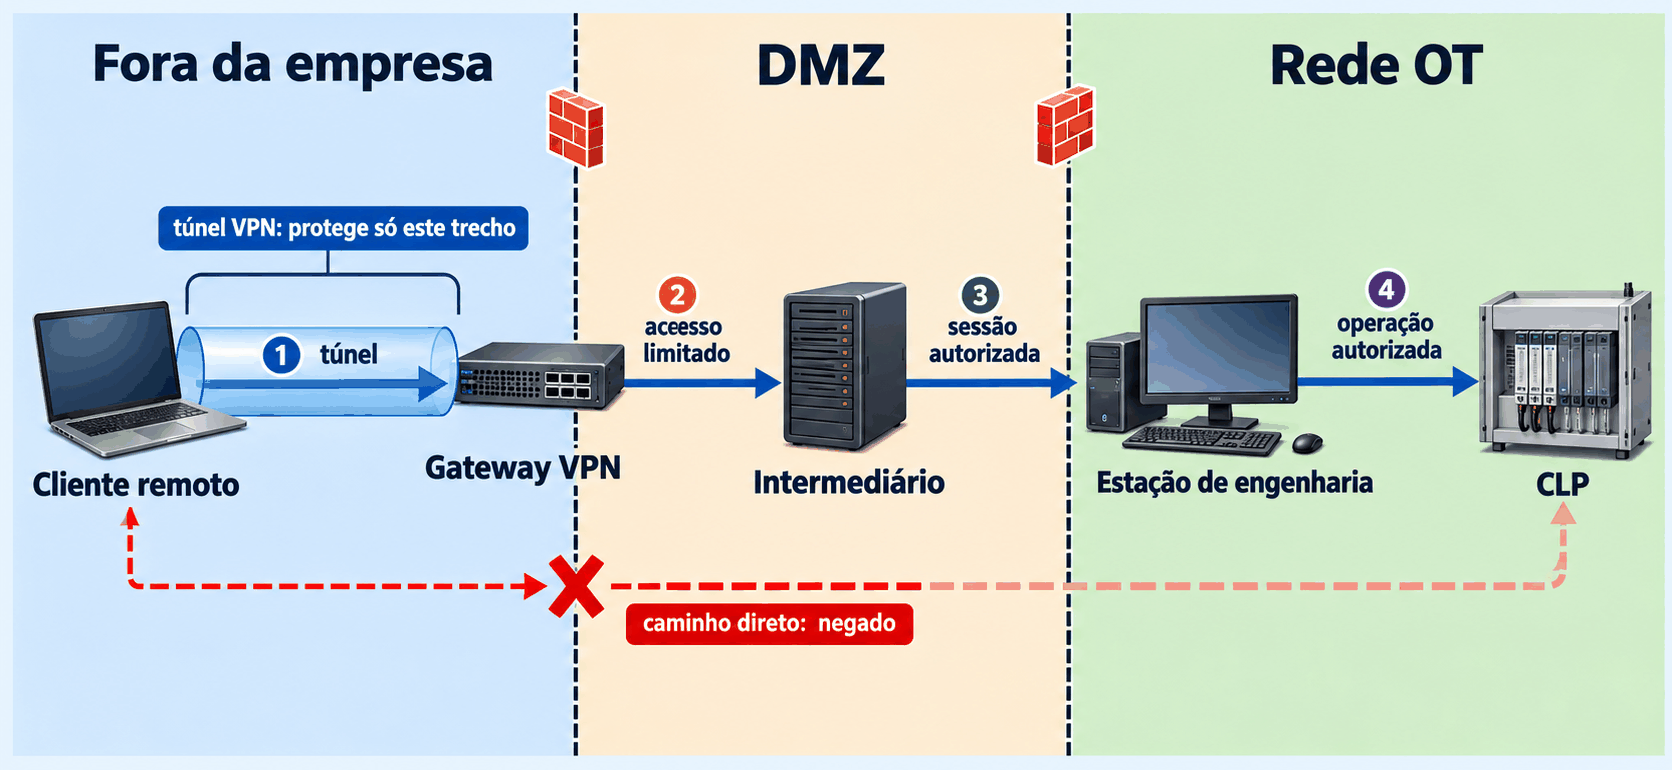
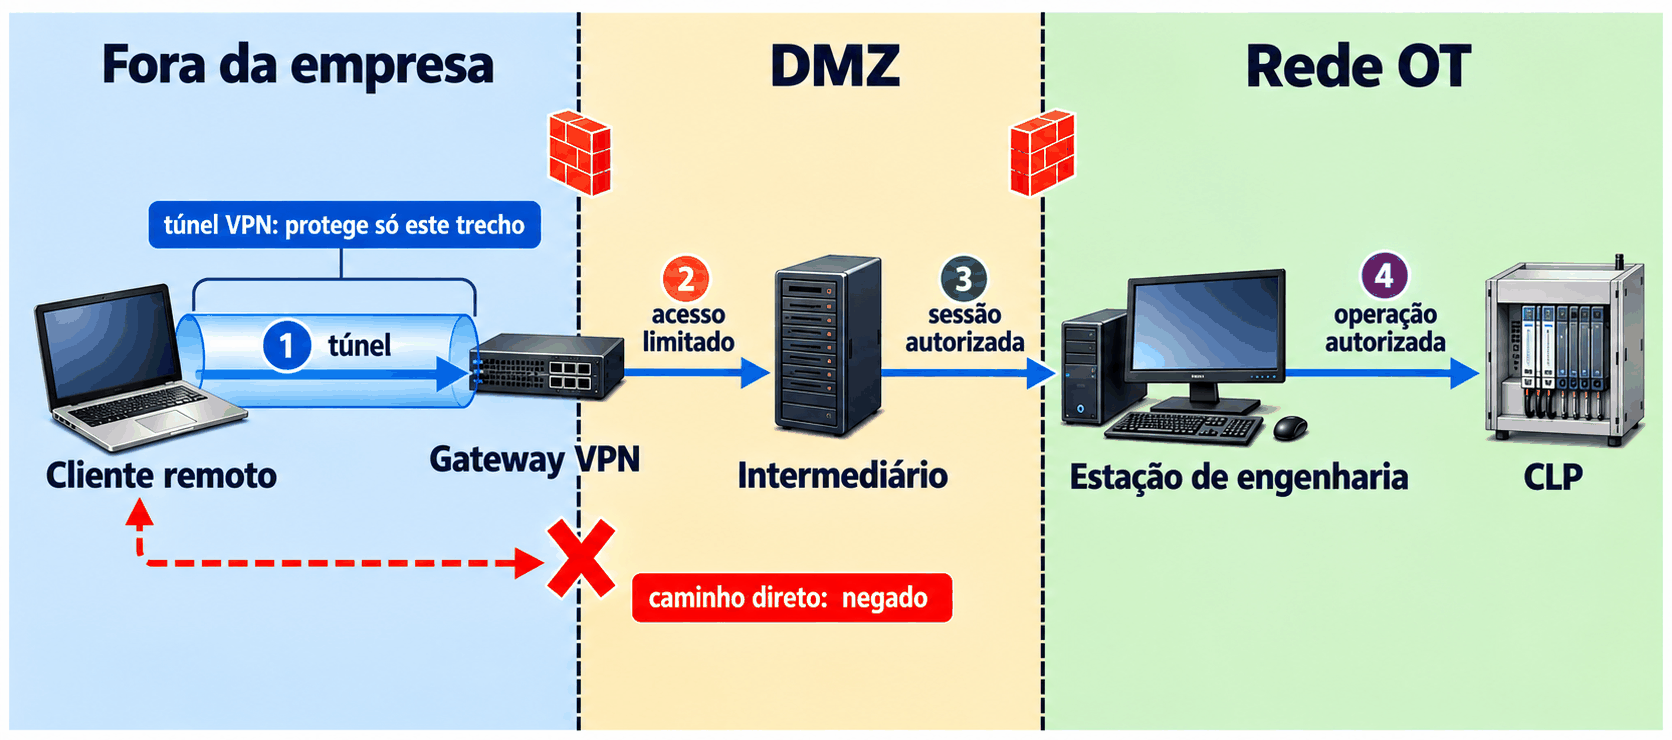
A19–A20: substitui imagem 30 pela versão com bloqueio na primeira fronteira

diff --git a/docente/A19-A20-seguranca-operacoes-industriais/prompts-ilustrativos.md b/docente/A19-A20-seguranca-operacoes-industriais/prompts-ilustrativos.md
@@ -180,7 +180,7 @@ Prioridade sugerida: **26, 29, 30, 31** (maior ganho didático), depois 27, 28, 
 
 **Local:** A19, "Exemplo de percurso remoto limitado"; substitui o esquema em texto. Reutilizada na A20, em "Proteger: acesso remoto".
 
-**Estado:** imagem recebida, validada e incorporada em 29 out. 2026 (`docs/assets/a19-a20/imagem30.png`, margens recortadas e 256 cores; `#figura-30` na A19 e na A20). Na A19, substitui o esquema e a Aplicação cita os trechos ①–④; na A20, abre a seção de acesso remoto com a tabela trecho → pergunta → controle, e a análise de M-01 pede o trecho de cada evento. Observação: a seta vermelha tem ponta também junto ao cliente e um prolongamento esmaecido até o CLP; a página explica o esmaecido como o alcance caso a fronteira não bloqueasse.
+**Estado:** imagem recebida, validada e incorporada em 29 out. 2026 (`docs/assets/a19-a20/imagem30.png`, margens recortadas e 256 cores; `#figura-30` na A19 e na A20). Na A19, substitui o esquema e a Aplicação cita os trechos ①–④; na A20, abre a seção de acesso remoto com a tabela trecho → pergunta → controle, e a análise de M-01 pede o trecho de cada evento. Substituída no mesmo dia por segunda versão do docente, em que a seta vermelha termina no X, sem o prolongamento esmaecido até o CLP da primeira; texto da A19 ajustado. Resta uma ponta de seta junto ao cliente, sem efeito na leitura.
 
 **Revisão de 29 out. 2026:** o prompt anterior colocava selos com os controles de cada trecho, o que entregaria a resposta da Aplicação da A19 ("marque onde devem existir identidade, restrição de destino, registro de sessão e autorização de alteração"). A nova versão numera os trechos ①–④ para o estudante associar os controles. Ao incorporar, ajustar a Aplicação para citar os números.
 

diff --git a/docs/aulas/A19-seguranca-operacoes-industriais.md b/docs/aulas/A19-seguranca-operacoes-industriais.md
@@ -524,7 +524,7 @@ Os níveis orientam onde colocar fronteiras. Não são uma prescrição universa
 
 - **Três áreas:** fora da empresa, DMZ e rede OT, separadas por firewalls.
 - **Túnel VPN:** cobre só o trecho ①. Depois do gateway, cada passagem depende da proteção do próprio trecho.
-- **Caminho direto:** a seta vermelha mostra o que deve ser negado. O trecho esmaecido indica onde ela chegaria se a fronteira não bloqueasse.
+- **Caminho direto:** a seta vermelha mostra a tentativa de alcançar a rede OT sem passar pelo gateway e pelo intermediário. Ela é bloqueada já na primeira fronteira.
 
 **DMZ** separa serviços e media comunicações entre redes. Uma **estação intermediária** (*jump host*) concentra o acesso ao destino seguinte.
 
